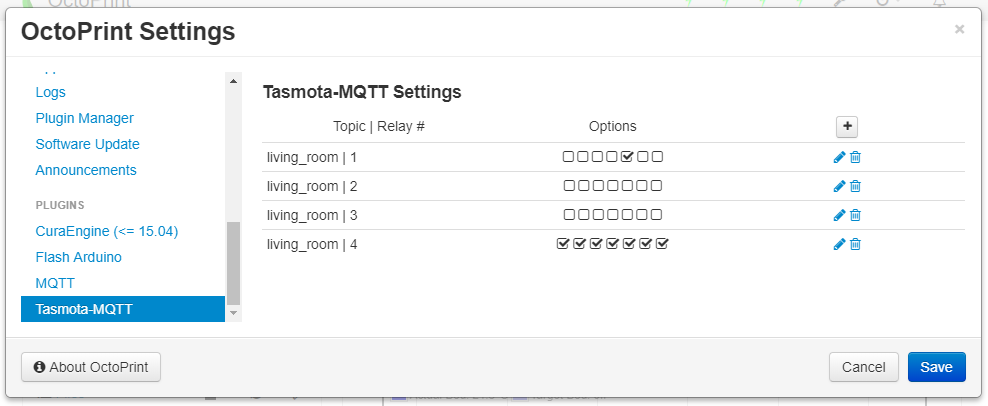
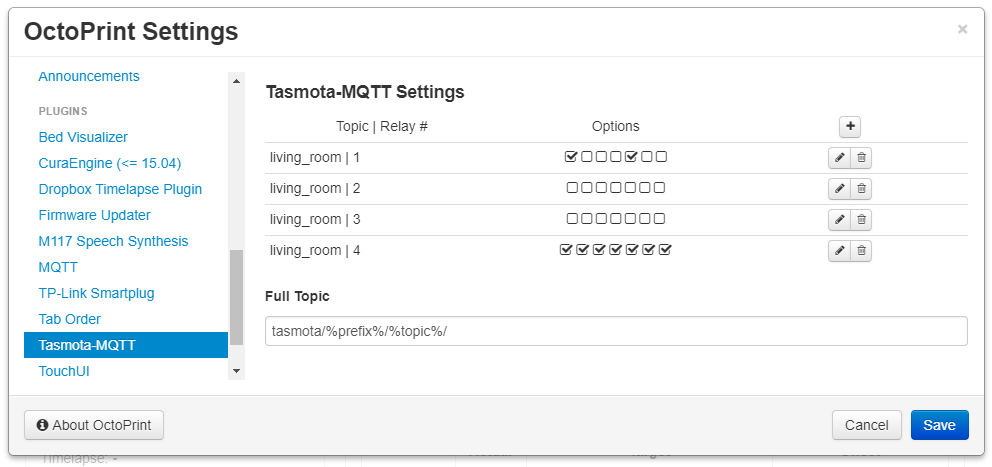
0.3.0

diff --git a/octoprint_tasmota_mqtt/__init__.py b/octoprint_tasmota_mqtt/__init__.py
@@ -6,6 +6,7 @@ from octoprint.server import user_permission
 import threading
 import time
 import os
+import re
 
 class TasmotaMQTTPlugin(octoprint.plugin.SettingsPlugin,
                          octoprint.plugin.AssetPlugin,
@@ -19,7 +20,8 @@ class TasmotaMQTTPlugin(octoprint.plugin.SettingsPlugin,
 
 	def get_settings_defaults(self):
 		return dict(
-			arrRelays = [dict(index=1,topic="sonoff",relayN="",icon="icon-bolt",warn=True,warnPrinting=True,gcode=False,currentstate="UNKNOWN",gcodeOnDelay=0,gcodeOffDelay=0,connect=False,connectOnDelay=15,disconnect=False,disconnectOffDelay=0,sysCmdOn=False,sysCmdRunOn="",sysCmdOnDelay=0,sysCmdOff=False,sysCmdRunOff="",sysCmdOffDelay=0)]
+			arrRelays = [dict(index=1,topic="sonoff",relayN="",icon="icon-bolt",warn=True,warnPrinting=True,gcode=False,currentstate="UNKNOWN",gcodeOnDelay=0,gcodeOffDelay=0,connect=False,connectOnDelay=15,disconnect=False,disconnectOffDelay=0,sysCmdOn=False,sysCmdRunOn="",sysCmdOnDelay=0,sysCmdOff=False,sysCmdRunOff="",sysCmdOffDelay=0)],
+			full_topic_pattern='%topic%/%prefix%/'
 		)
 		
 	def get_settings_version(self):
@@ -40,8 +42,8 @@ class TasmotaMQTTPlugin(octoprint.plugin.SettingsPlugin,
 			if "mqtt_subscribe" in helpers:
 				self.mqtt_subscribe = helpers["mqtt_subscribe"]
 				for relay in self._settings.get(["arrRelays"]):
-					self._logger.info("%s/stat/POWER%s" % (relay["topic"],relay["relayN"]))
-					self.mqtt_subscribe("%s/stat/POWER%s" % (relay["topic"],relay["relayN"]), self._on_mqtt_subscription, kwargs=dict(top=relay["topic"],relayN=relay["relayN"]))
+					self._logger.info(self.generate_mqtt_full_topic(relay, "stat"))
+					self.mqtt_subscribe(self.generate_mqtt_full_topic(relay, "stat"), self._on_mqtt_subscription, kwargs=dict(top=relay["topic"],relayN=relay["relayN"]))
 			if "mqtt_unsubscribe" in helpers:
 				self.mqtt_unsubscribe = helpers["mqtt_unsubscribe"]
 		else:
@@ -70,7 +72,7 @@ class TasmotaMQTTPlugin(octoprint.plugin.SettingsPlugin,
 			try:
 				self.mqtt_unsubscribe(self._on_mqtt_subscription)
 				for relay in self._settings.get(["arrRelays"]):
-					self.mqtt_subscribe("%s/stat/POWER%s" % (relay["topic"],relay["relayN"]), self._on_mqtt_subscription, kwargs=dict(top=relay["topic"],relayN=relay["relayN"]))
+					self.mqtt_subscribe(self.generate_mqtt_full_topic(relay, "stat"), self._on_mqtt_subscription, kwargs=dict(top=relay["topic"],relayN=relay["relayN"]))
 			except:
 				self._plugin_manager.send_plugin_message(self._identifier, dict(noMQTT=True))
 
@@ -114,21 +116,25 @@ class TasmotaMQTTPlugin(octoprint.plugin.SettingsPlugin,
 			for relay in self._settings.get(["arrRelays"]):
 				self._logger.info("checking status of %s relay %s" % (relay["topic"],relay["relayN"]))
 				try:
-					self.mqtt_publish("%s/cmnd/POWER%s" % (relay["topic"],relay["relayN"]),"")
+					self.mqtt_publish(self.generate_mqtt_full_topic(relay, "cmnd"),"")
 				except:
 					self._plugin_manager.send_plugin_message(self._identifier, dict(noMQTT=True))
 					
 		if command == 'checkRelay':
 			self._logger.info("subscribing to {topic} relay {relayN}".format(**data))
-			self.mqtt_subscribe("{topic}/stat/POWER{relayN}".format(**data), self._on_mqtt_subscription, kwargs=dict(top="{topic}".format(**data),relayN="{relayN}".format(**data)))
-			self._logger.info("checking {topic} relay {relayN}".format(**data))
-			self.mqtt_publish("{topic}/cmnd/Power{relayN}".format(**data), "")
+			for relay in self._settings.get(["arrRelays"]):
+				if relay["topic"] == "{topic}".format(**data) and relay["relayN"] == "{relayN}".format(**data):
+					self.mqtt_subscribe(self.generate_mqtt_full_topic(relay, "stat"), self._on_mqtt_subscription, kwargs=dict(top="{topic}".format(**data),relayN="{relayN}".format(**data)))
+					self._logger.info("checking {topic} relay {relayN}".format(**data))
+					self.mqtt_publish(self.generate_mqtt_full_topic(relay, "cmnd"), "")
 			
 		if command == 'removeRelay':
-			self.mqtt_unsubscribe(self._on_mqtt_subscription,topic="{topic}/stat/POWER{relayN}".format(**data))
+			for relay in self._settings.get(["arrRelays"]):
+				if relay["topic"] == "{topic}".format(**data) and relay["relayN"] == "{relayN}".format(**data):
+					self.mqtt_unsubscribe(self._on_mqtt_subscription,topic=self.generate_mqtt_full_topic(relay, "stat"))
 			
 	def turn_on(self, relay):
-		self.mqtt_publish(relay["topic"] + "/cmnd/Power" + relay["relayN"], "ON")
+		self.mqtt_publish(self.generate_mqtt_full_topic(relay, "cmnd"), "ON")
 		if relay["sysCmdOn"]:
 			t = threading.Timer(int(relay["sysCmdOnDelay"]),os.system,args=[relay["sysCmdRunOn"]])
 			t.start()
@@ -143,7 +149,7 @@ class TasmotaMQTTPlugin(octoprint.plugin.SettingsPlugin,
 		if relay["disconnect"]:
 			self._printer.disconnect()
 			time.sleep(int(relay["disconnectOffDelay"]))
-		self.mqtt_publish(relay["topic"] + "/cmnd/Power" + relay["relayN"], "OFF")
+		self.mqtt_publish(self.generate_mqtt_full_topic(relay, "cmnd"), "OFF")
 			
 	##~~ Gcode processing hook
 	
@@ -168,6 +174,14 @@ class TasmotaMQTTPlugin(octoprint.plugin.SettingsPlugin,
 							return
 						else:
 							return
+							
+	##~~ Utility functions
+	
+	def generate_mqtt_full_topic(self, relay, prefix):
+		full_topic = re.sub(r'%topic%', relay["topic"], self._settings.get(["full_topic_pattern"]))
+		full_topic = re.sub(r'%prefix%', prefix, full_topic)
+		full_topic = full_topic + "POWER" + relay["relayN"]
+		return full_topic
 			
 	##~~ WizardPlugin mixin
 			

diff --git a/setup.py b/setup.py
@@ -14,7 +14,7 @@ plugin_package = "octoprint_tasmota_mqtt"
 plugin_name = "OctoPrint-TasmotaMQTT"
 
 # The plugin's version. Can be overwritten within OctoPrint's internal data via __plugin_version__ in the plugin module
-plugin_version = "0.2.3"
+plugin_version = "0.3.0"
 
 # The plugin's description. Can be overwritten within OctoPrint's internal data via __plugin_description__ in the plugin
 # module

diff --git a/README.md b/README.md
@@ -20,6 +20,7 @@ Install via the Plugin Manager or manually using this URL:
 - Use the Tasmota device's topic in the Tasmota-MQTT Plugin settings for the individual relays.
 - For multiple relay devices enter the index number that matches your desired relay.
 - For single relay devices like the [iTead Sonoff S20 Smart Socket](https://www.itead.cc/smart-socket.html), leave Relay # blank.
+- Full Topic in plugin settings must match your relay's `Full Topic` pattern.
 
 ## Screenshots
 
